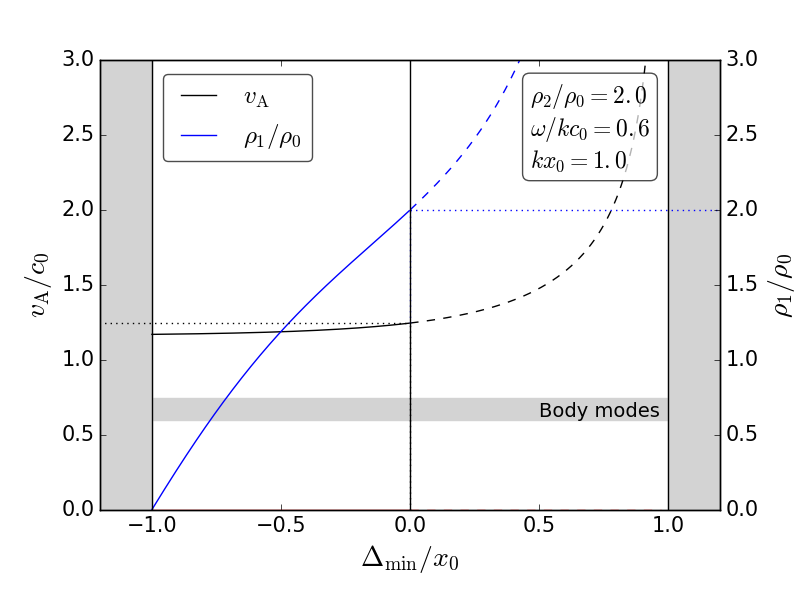
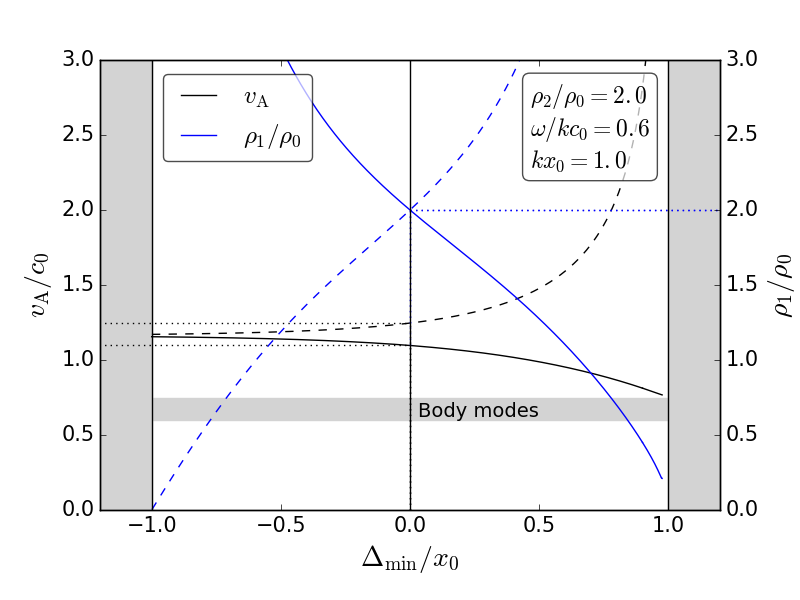
Added dotted lines for symmetric inversion of DM

diff --git a/sms-vA-2var.py b/sms-vA-2var.py
@@ -271,25 +271,15 @@ if show_DM == True:
     vA_guess = [1.23, 0.9, 0.9]
     
     R1_guess_sym = [2.] * 2
-    vA_guess_sym = [1.25] * 2
+    vA_guess_sym = [1.25, 1.097]
     
     DMmin = [-0.999, 0.9, 0.9]
     DMmax = [1., -1., 0.976]
     NDM = 500
 
-#    R1_guess = [0.1, 1.276]
-#    vA_guess = [1.23, 0.988]
-#    
-#    R1_guess_sym = [2., 2.]
-#    vA_guess_sym = [1.25, 1.25]
-#    
-#    DMmin = [-0.999, 0.5]
-#    DMmax = [0.5, 1.]
-#    NDM = 500
+    modes = [0,1]
     
-    modes = [0,1]#[0,1]
-    
-    branches = [1,2]#[3,3]
+    branches = [1,2]
     
     styles = ['--'] + ['-'] * 2
 
@@ -328,8 +318,7 @@ if show_DM == True:
             else:
                 ax1.plot(DM_sols, vA_sols, color='black', linestyle=styles[nb])
                 ax2.plot(DM_sols, R1_sols, color='blue', linestyle=styles[nb])
-            plt.plot(DM_sols, disp_rel_asym(W, K, np.array(vA_sols), np.array(R1_sols)), color='red', linestyle=styles[nb])
-            
+#            plt.plot(DM_sols, disp_rel_asym(W, K, np.array(vA_sols), np.array(R1_sols)), color='red', linestyle=styles[nb])
             
         #add dotted lines to show symmetric inversion
         DM_sym = 0
@@ -341,8 +330,6 @@ if show_DM == True:
         plt.plot([DM_sym]*2, [vA_sol_sym, R1_sol_sym], color='blue', linestyle=':')
         plt.plot([DM_sym, 2.], [R1_sol_sym]*2, color='blue', linestyle=':')
         plt.plot([-2., DM_sym], [vA_sol_sym]*2, color='black', linestyle=':')
-    
-    print(vA_sol_sym, R1_sol_sym)    
     
     ax1.set_ylim([0., 3.])
     ax2.set_ylim([0., 3.])
@@ -362,9 +349,7 @@ if show_DM == True:
     plt.axvline(color='black')
     plt.axvline(x=-1., color='black')
     plt.axvline(x=1., color='black')
-    ax1.annotate('Body modes', xy=(0.5, 0.62), xycoords='data', annotation_clip=False, fontsize=14)
-#    ax.annotate('Quasi-kink', xy=(0.15, 1.8), xycoords='data', annotation_clip=False, fontsize=15)
-#    ax.annotate('Quasi-sausage', xy=(-1., 1.8), xycoords='data', annotation_clip=False, fontsize=15)
+    ax1.annotate('Body modes', xy=(0.03, 0.62), xycoords='data', annotation_clip=False, fontsize=14)
     
     #parameter value overlay
     textstr = (r'$\rho_2/\rho_0=%.1f$' + '\n' + r'$\omega/k c_0=%.1f$' + '\n' + 
@@ -378,120 +363,9 @@ if show_DM == True:
             
     plt.gcf().subplots_adjust(bottom=0.15)
 
-#    filename = 'DM_vA_approx_2var'
-#    plt.savefig('D:\\my_work\\projects\\Asymmetric_slab\\Python\\sms\\sms-plots\\' 
-#                + filename)
-
-
-
-#if show_DM == True:
-#    
-#    R1_guess = [1.5, 0.1]
-#    vA_guess = [1.23, 1.23]
-#    
-#    R1_guess_sym = [2., 2.]
-#    vA_guess_sym = [1.25, 1.25]
-#    
-#    DMmin = [0.001, -0.999]
-#    DMmax = [1., 1.2]
-#    NDM = 500
-#    
-##    step = [0.0005, 0.0005, 0.001, 0.001, 0.0001, 0.0001]
-#    
-#    modes = [0,1]#[0,1]
-#    
-#    branches = [1,1]#[3,3]
-#    
-#    styles = ['--'] + ['-']
-#
-#    fig, ax1 = plt.subplots()
-#    ax2 = ax1.twinx()
-#    
-#    ln1 = []
-#    ln2 = []
-#    for mode_ind in modes:
-#        for b in range(branches[mode_ind]):
-#            mode = mode_options[mode_ind]
-#            nb = sum(branches[:mode_ind]) + b
-#            
-#            DM_vals = np.linspace(DMmin[nb], DMmax[nb], NDM)
-#            vA_sols = []            
-#            R1_sols = [] 
-#            DM_sols = []
-#            
-#            for i, DM in enumerate(DM_vals):
-#                def function(vA_R1):
-#                    return [min_pert_shift_func(W, K, mode, vA_R1[0], vA_R1[1], DM),
-#                            min_pert_shift_func_2(W, K, mode, vA_R1[0], vA_R1[1], DM)]
-#                if i != 0:
-#                    if abs(vA_sol) > 5. or (mode_ind == 0 and DM < 0.) or (mode_ind == 1 and DM > 0.):
-#                        break
-#                    else:
-#                        vA_guess[nb], R1_guess[nb] = vA_sol, R1_sol
-#                vA_sol, R1_sol = fsolve(function, [vA_guess[nb], R1_guess[nb]], xtol=1e-05)
-#                vA_sols.append(vA_sol)
-#                R1_sols.append(R1_sol)
-#                DM_sols.append(DM)
-#            
-#            if mode_ind == 1:
-#                ln1 = ln1 + ax1.plot(DM_sols, vA_sols, color='black', linestyle=styles[nb], label=r'$v_\mathrm{A}$')
-#                ln2 = ln2 + ax2.plot(DM_sols, R1_sols, color='blue', linestyle=styles[nb], label=r'$\rho_1 / \rho_0$')
-#            else:
-#                ax1.plot(DM_sols, vA_sols, color='black', linestyle=styles[nb])
-#                ax2.plot(DM_sols, R1_sols, color='blue', linestyle=styles[nb])
-#            plt.plot(DM_sols, disp_rel_asym(W, K, np.array(vA_sols), np.array(R1_sols)), color='red', linestyle=styles[nb])
-#            
-#            
-#    #add dotted lines to show symmetric inversion
-#    DM_sym = 0
-#    def function(vA_R1):
-#        return [amp_ratio_func(W, K, mode, vA_R1[0], vA_R1[1], DM_sym),
-#                amp_ratio_func_2(W, K, mode, vA_R1[0], vA_R1[1], DM_sym)]
-#    vA_sol_sym, R1_sol_sym = fsolve(function, [vA_guess_sym[nb], R1_guess_sym[nb]], xtol=1e-08)
-#    plt.plot([DM_sym]*2, [0, vA_sol_sym], color='black', linestyle=':')
-#    plt.plot([DM_sym]*2, [vA_sol_sym, R1_sol_sym], color='blue', linestyle=':')
-#    plt.plot([DM_sym, 2.], [R1_sol_sym]*2, color='blue', linestyle=':')
-#    plt.plot([-2., DM_sym], [vA_sol_sym]*2, color='black', linestyle=':')
-#    
-#    print(vA_sol_sym, R1_sol_sym)    
-#    
-#    ax1.set_ylim([0., 3.])
-#    ax2.set_ylim([0., 3.])
-#    plt.xlim([-1.2,1.2])
-#    ax1.fill_between((-1.2, 1.2), (W, W), [W * c0 / (np.sqrt(c0**2 - W**2))] * 2, color='lightgray')
-#    ax1.set_ylabel(r'$v_\mathrm{A}/c_0$', fontsize = 20)
-#    ax1.set_xlabel(r'$\Delta_\mathrm{min}/x_0$', fontsize = 20)
-#    ax2.set_ylabel(r'$\rho_1 / \rho_0$', fontsize = 20)
-#    ax1.fill_between((-1.2, -1.), (0.,0.), (5.,5.), color='lightgray')
-#    ax1.fill_between((1., 1.2), (0.,0.), (5.,5.), color='lightgray')
-#    
-#    #legend
-#    lns = ln1+ln2
-#    labs = [l.get_label() for l in lns]
-#    plt.legend(lns, labs, loc=(0.102, 0.775), fancybox=True, framealpha=0.7)
-#    
-#    plt.axvline(color='black')
-#    plt.axvline(x=-1., color='black')
-#    plt.axvline(x=1., color='black')
-#    ax1.annotate('Body modes', xy=(0.5, 0.62), xycoords='data', annotation_clip=False, fontsize=14)
-##    ax.annotate('Quasi-kink', xy=(0.15, 1.8), xycoords='data', annotation_clip=False, fontsize=15)
-##    ax.annotate('Quasi-sausage', xy=(-1., 1.8), xycoords='data', annotation_clip=False, fontsize=15)
-#    
-#    #parameter value overlay
-#    textstr = (r'$\rho_2/\rho_0=%.1f$' + '\n' + r'$\omega/k c_0=%.1f$' + '\n' + 
-#               r'$kx_0=%.1f$')%(R2, W, K)
-#    # these are matplotlib.patch.Patch properties
-#    props = dict(boxstyle='round', facecolor='white', alpha=0.7)
-#    # place a text box in upper left in axes coords
-#    ax = plt.gca()
-#    ax.text(0.693, 0.955, textstr, transform=ax.transAxes, fontsize=17,
-#            verticalalignment='top', bbox=props)
-#            
-#    plt.gcf().subplots_adjust(bottom=0.15)
-#
-#    filename = 'DM_vA_approx_2var'
-#    plt.savefig('D:\\my_work\\projects\\Asymmetric_slab\\Python\\sms\\sms-plots\\' 
-#                + filename)
+    filename = 'DM_vA_approx_2var'
+    plt.savefig('D:\\my_work\\projects\\Asymmetric_slab\\Python\\sms\\sms-plots\\' 
+                + filename)
 
 
 if show_scatter_RA == True:
